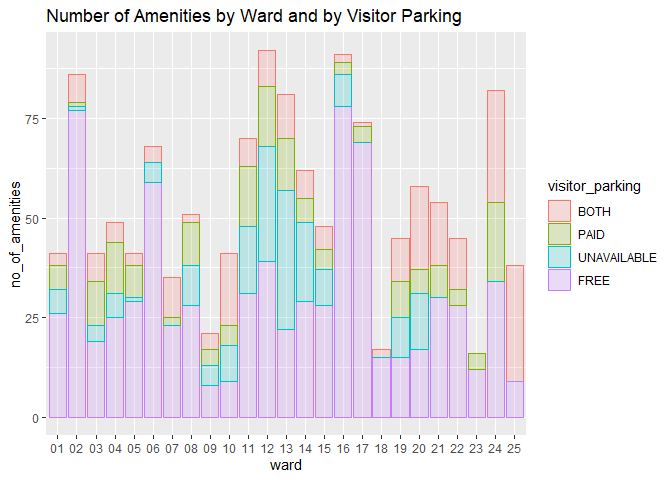
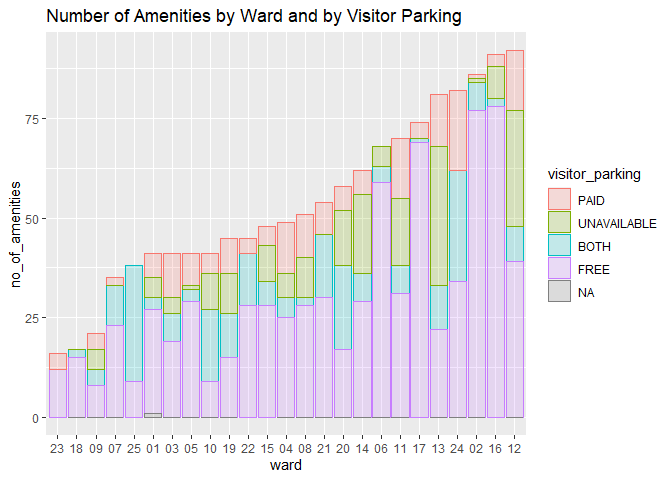
finish ex 2

diff --git a/mini-data-analysis-3.md b/mini-data-analysis-3.md
@@ -17,6 +17,7 @@ suppressPackageStartupMessages(library(ggridges))
 suppressPackageStartupMessages(library(ggplot2))
 suppressPackageStartupMessages(library(kableExtra))
 suppressPackageStartupMessages(library(lubridate))
+suppressPackageStartupMessages(library(broom))
 ```
 
 After loading the appropriate packages, I load the data as processed in
@@ -60,12 +61,11 @@ apt_buildings %>%
 
 ## Research Questions
 
-1.  Do various apartment characteristics like number of balconies,
-    whether pets are allowed, and air conditioning type affect the trend
-    of the number of smoking/non-smoking apartment units from 1910 to
-    2020?
-2.  What are similar characteristics in each ward with lower number of
-    amenities versus higher?
+1.  Is there a downward or upward trend in the number non-smoking units
+    built from 1910 to 2020?
+2.  Does the number of amenities change by ward and by smoking building
+    type? Is there an interaction between smoking building type and ward
+    on the number of amenities?
 
 # Exercise 1: Special Data Types
 
@@ -86,6 +86,13 @@ apt_buildings %>%
 
 ![](mini-data-analysis-3_files/figure-gfm/unnamed-chunk-3-1.png)<!-- -->
 
+``` r
+apt_buildings %>%
+  group_by(ward) %>%
+  summarise(no_of_amenities = sum(no_of_amenities)) %>%
+  mutate(ward = fct_reorder(ward, no_of_amenities)) -> apt_buildings1
+```
+
 **Task 2**: The column *visitor\_parking* column has *UNAVAILABLE* as an
 option, however there are also data points with *NA* as input. Hence, I
 used the `fct_collapse` along with `addNA` function in order to combine
@@ -93,21 +100,29 @@ the *UNAVAILABLE* option with the *NA* option. This allows us to still
 include the number of NA’s into the analysis.
 
 ``` r
-apt_buildings$visitor_parking  <- fct_collapse(addNA(apt_buildings$visitor_parking),
-                                               UNAVAILABLE = c("UNAVAILABLE", NA))
-
-
+# create tibble 
 apt_buildings %>%
   group_by(ward, visitor_parking) %>%
   summarise(no_of_amenities = sum(no_of_amenities), 
-            no_of_unit = sum(no_of_units)) %>%
-  mutate(visitor_parking = fct_reorder(visitor_parking, no_of_amenities)) %>%
+            no_of_unit = sum(no_of_units)) -> apt_buildings2
+```
+
+    ## `summarise()` has grouped output by 'ward'. You can override using the `.groups` argument.
+
+``` r
+# change factor levels to be reordered the same as task 1 
+apt_buildings2$ward <- factor(apt_buildings2$ward, 
+                              levels(apt_buildings1$ward))
+
+apt_buildings2$visitor_parking <-  fct_reorder(factor(apt_buildings2$visitor_parking), 
+            apt_buildings2$no_of_amenities)
+
+# plot num of amenities by ward and visitor parking 
+apt_buildings2 %>% 
   ggplot(aes(x=ward, y=no_of_amenities, fill=visitor_parking, color=visitor_parking)) +
   geom_bar(stat="identity", alpha=0.2) +
   ggtitle("Number of Amenities by Ward and by Visitor Parking")
 ```
-
-    ## `summarise()` has grouped output by 'ward'. You can override using the `.groups` argument.
 
 ![](mini-data-analysis-3_files/figure-gfm/unnamed-chunk-4-1.png)<!-- -->
 
@@ -115,56 +130,79 @@ apt_buildings %>%
 
 ## 2.0 (no points)
 
-Pick a research question, and pick a variable of interest (we’ll call it
-“Y”) that’s relevant to the research question. Indicate these.
+**Research Question**: Does the number of amenities change by ward and
+by smoking building type? Is there an interaction between smoking
+building type and ward on the number of amenities?
 
-<!-------------------------- Start your work below ---------------------------->
+**Variable of interest**: Number of amenities
 
-**Research Question**: FILL\_THIS\_IN
+## 2.1
 
-**Variable of interest**: FILL\_THIS\_IN
+I will perform a TWO-way ANOVA to test if:
 
-<!----------------------------------------------------------------------------->
+1.  there is no difference in the mean number of amenities at any level
+    of the ward variable.
+2.  there is no difference in the mean number of amenities at any level
+    of the smoking building type variable.
+3.  the effect of the ward variable does not depend on the effect of the
+    smoking building type variable (a.k.a. no interaction effect).
 
-## 2.1 (5 points)
+The code to perform the test and the output is shown below.
 
-Fit a model or run a hypothesis test that provides insight on this
-variable with respect to the research question. Store the model object
-as a variable, and print its output to screen. We’ll omit having to
-justify your choice, because we don’t expect you to know about model
-specifics in STAT 545.
+``` r
+my_aov <- aov(no_of_amenities ~ ward * `non-smoking_building`, 
+              data=apt_buildings)
+my_aov
+```
 
--   **Note**: It’s OK if you don’t know how these models/tests work.
-    Here are some examples of things you can do here, but the sky’s the
-    limit.
-    -   You could fit a model that makes predictions on Y using another
-        variable, by using the `lm()` function.
-    -   You could test whether the mean of Y equals 0 using `t.test()`,
-        or maybe the mean across two groups are different using
-        `t.test()`, or maybe the mean across multiple groups are
-        different using `anova()` (you may have to pivot your data for
-        the latter two).
-    -   You could use `lm()` to test for significance of regression.
+    ## Call:
+    ##    aov(formula = no_of_amenities ~ ward * `non-smoking_building`, 
+    ##     data = apt_buildings)
+    ## 
+    ## Terms:
+    ##                      ward `non-smoking_building` ward:`non-smoking_building`
+    ## Sum of Squares   239.6591                 1.0256                     57.0057
+    ## Deg. of Freedom        24                      1                          24
+    ##                 Residuals
+    ## Sum of Squares  2240.0732
+    ## Deg. of Freedom      3105
+    ## 
+    ## Residual standard error: 0.8493766
+    ## Estimated effects may be unbalanced
+    ## 92 observations deleted due to missingness
 
-<!-------------------------- Start your work below ---------------------------->
-<!----------------------------------------------------------------------------->
+## 2.2
 
-## 2.2 (5 points)
+I will use the *p*-value as a way to determine the results of the test
+using the `broom` package.
 
-Produce something relevant from your fitted model: either predictions on
-Y, or a single value like a regression coefficient or a p-value.
+``` r
+my_aov_tidy <- tidy(my_aov)
+my_aov_tidy
+```
 
--   Be sure to indicate in writing what you chose to produce.
--   Your code should either output a tibble (in which case you should
-    indicate the column that contains the thing you’re looking for), or
-    the thing you’re looking for itself.
--   Obtain your results using the `broom` package if possible. If your
-    model is not compatible with the broom function you’re needing, then
-    you can obtain your results by some other means, but first indicate
-    which broom function is not compatible.
+    ## # A tibble: 4 x 6
+    ##   term                           df   sumsq meansq statistic   p.value
+    ##   <chr>                       <dbl>   <dbl>  <dbl>     <dbl>     <dbl>
+    ## 1 ward                           24  240.    9.99      13.8   7.14e-53
+    ## 2 `non-smoking_building`          1    1.03  1.03       1.42  2.33e- 1
+    ## 3 ward:`non-smoking_building`    24   57.0   2.38       3.29  1.13e- 7
+    ## 4 Residuals                    3105 2240.    0.721     NA    NA
 
-<!-------------------------- Start your work below ---------------------------->
-<!----------------------------------------------------------------------------->
+``` r
+my_aov_tidy$p.value
+```
+
+    ## [1] 7.142548e-53 2.332375e-01 1.131079e-07           NA
+
+Using an *α* = 0.05, we conclude that the first and third *p*-values are
+significant. Hence, we conclude that:
+
+-   the mean number of amenities is not the same for at least one ward
+    level
+-   there is an interaction effect; the effect of the ward variable on
+    the mean number of amenities is affected by the effect of the
+    smoking building type
 
 # Exercise 3: Reading and writing data
 
@@ -184,9 +222,6 @@ function.
     project repository / folder, and your code should still work.
 -   **Reproducibility criteria**: You should be able to delete the csv
     file, and remake it simply by knitting this Rmd file.
-
-<!-------------------------- Start your work below ---------------------------->
-<!----------------------------------------------------------------------------->
 
 ## 3.2 (5 points)
 
@@ -238,32 +273,3 @@ Every level-1 folder (that is, the ones stored in the top level, like
 “Milestone1” and “output”) has a `README` file, explaining in a sentence
 or two what is in the folder, in plain language (it’s enough to say
 something like “This folder contains the source for Milestone 1”).
-
-## Output (2 points)
-
-All output is recent and relevant:
-
--   All Rmd files have been `knit`ted to their output, and all data
-    files saved from Exercise 3 above appear in the `output` folder.
--   All of these output files are up-to-date – that is, they haven’t
-    fallen behind after the source (Rmd) files have been updated.
--   There should be no relic output files. For example, if you were
-    knitting an Rmd to html, but then changed the output to be only a
-    markdown file, then the html file is a relic and should be deleted.
-
-Our recommendation: delete all output files, and re-knit each
-milestone’s Rmd file, so that everything is up to date and relevant.
-
-PS: there’s a way where you can run all project code using a single
-command, instead of clicking “knit” three times. More on this in STAT
-545B!
-
-## Error-free code (1 point)
-
-This Milestone 3 document knits error-free. (We’ve already graded this
-aspect for Milestone 1 and 2)
-
-## Tagged release (1 point)
-
-You’ve tagged a release for Milestone 3. (We’ve already graded this
-aspect for Milestone 1 and 2)
